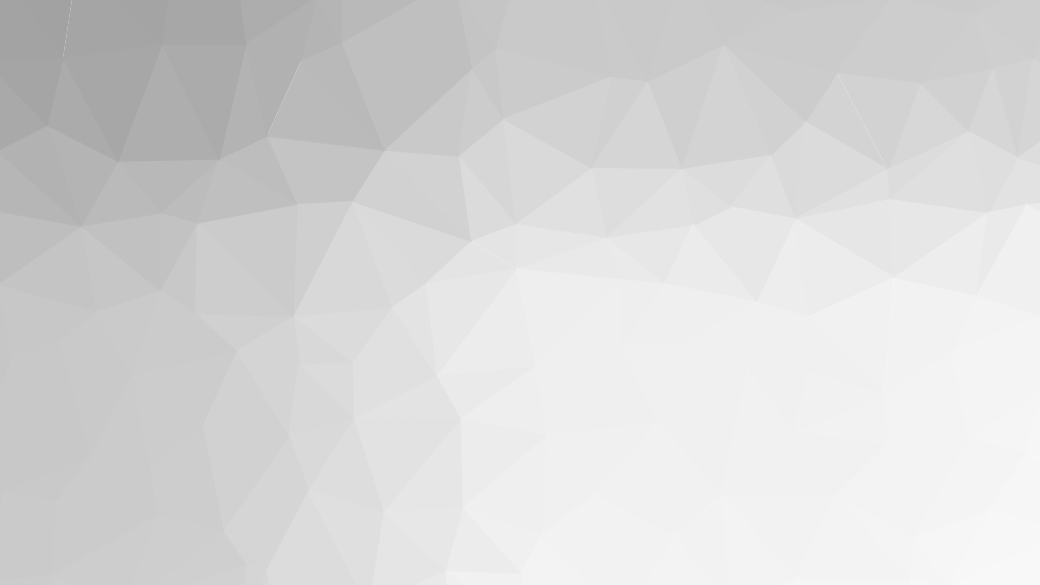
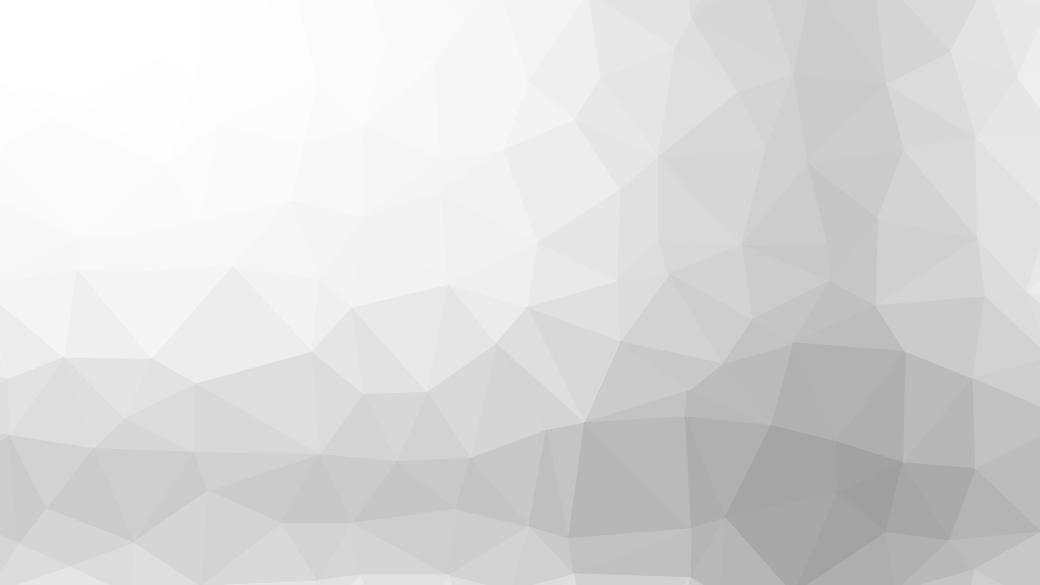
made some color scheme changes

diff --git a/components/Home.jsx b/components/Home.jsx
@@ -43,7 +43,7 @@ const Home = () => {
                             </div>
 
                             <button
-                                className={'mt-5 h-12 w-37 p-3 font-mono hover:bg-black-400 rounded-full hover:text-white flex items-center justify-evenly gap-1 shadow shadow-black  transition-colors hover:cursor-pointer border border-gray-400 bg-transparent hover:bg-gray-400 text-gray-400 dark:border-gray-400 dark:text-gray-400 dark:hover:bg-gray-400 dark:hover:text-black dark:shadow-gray-400'}
+                                className={'mt-5 h-12 w-37 p-3 font-mono hover:bg-black-400 rounded-full hover:text-white flex items-center justify-evenly gap-1 shadow shadow-black  transition-colors hover:cursor-pointer border border-gray-800 bg-transparent hover:bg-gray-800 text-gray-800 dark:border-gray-800 dark:text-gray-400 dark:hover:bg-gray-400 dark:hover:text-black dark:shadow-gray-400'}
                                 onClick={() => {
                                     window.open('https://drive.google.com/file/d/1_jTmO6SEJcZ6jK3DWNjThz7jJneplSmt/view?usp=sharing', '_blank')
                                 }}

diff --git a/components/Navbar.jsx b/components/Navbar.jsx
@@ -59,7 +59,7 @@ const Navbar = ({ activeTab, setActiveTab }) => {
             </ul>
         </nav>
 
-        <nav className={'fixed z-10 bottom-0 right-0 border-t-1 w-full flex items-center h-15 rounded-t-2xl bg-white/20 backdrop-blur-2xl dark:border-t-blue-400 md:hidden'}>
+        <nav className={'fixed z-10 bottom-0 right-0 border-t-1 w-full flex items-center h-15 rounded-t-2xl bg-gray-400/30 backdrop-blur-2xl dark:border-t-blue-400 md:hidden'}>
             <ul className={'grid grid-cols-4 w-full'}>
                 {tabs.map((tab, index) => {
                     return (

diff --git a/index.html b/index.html
@@ -15,7 +15,7 @@
 </head>
 
 <body
-  class="dark:bg-[url(/images/dark.png)]  transition-all duration-500 bg-[url(/images/light.png)] bg-cover bg-fixed">
+  class="dark:bg-[url(/images/dark.png)]  transition-all duration-500 bg-[url(/images/light.png)] bg-cover bg-center bg-fixed">
   <div id="root"></div>
   <script type="module" src="/src/main.jsx"></script>
 </body>
